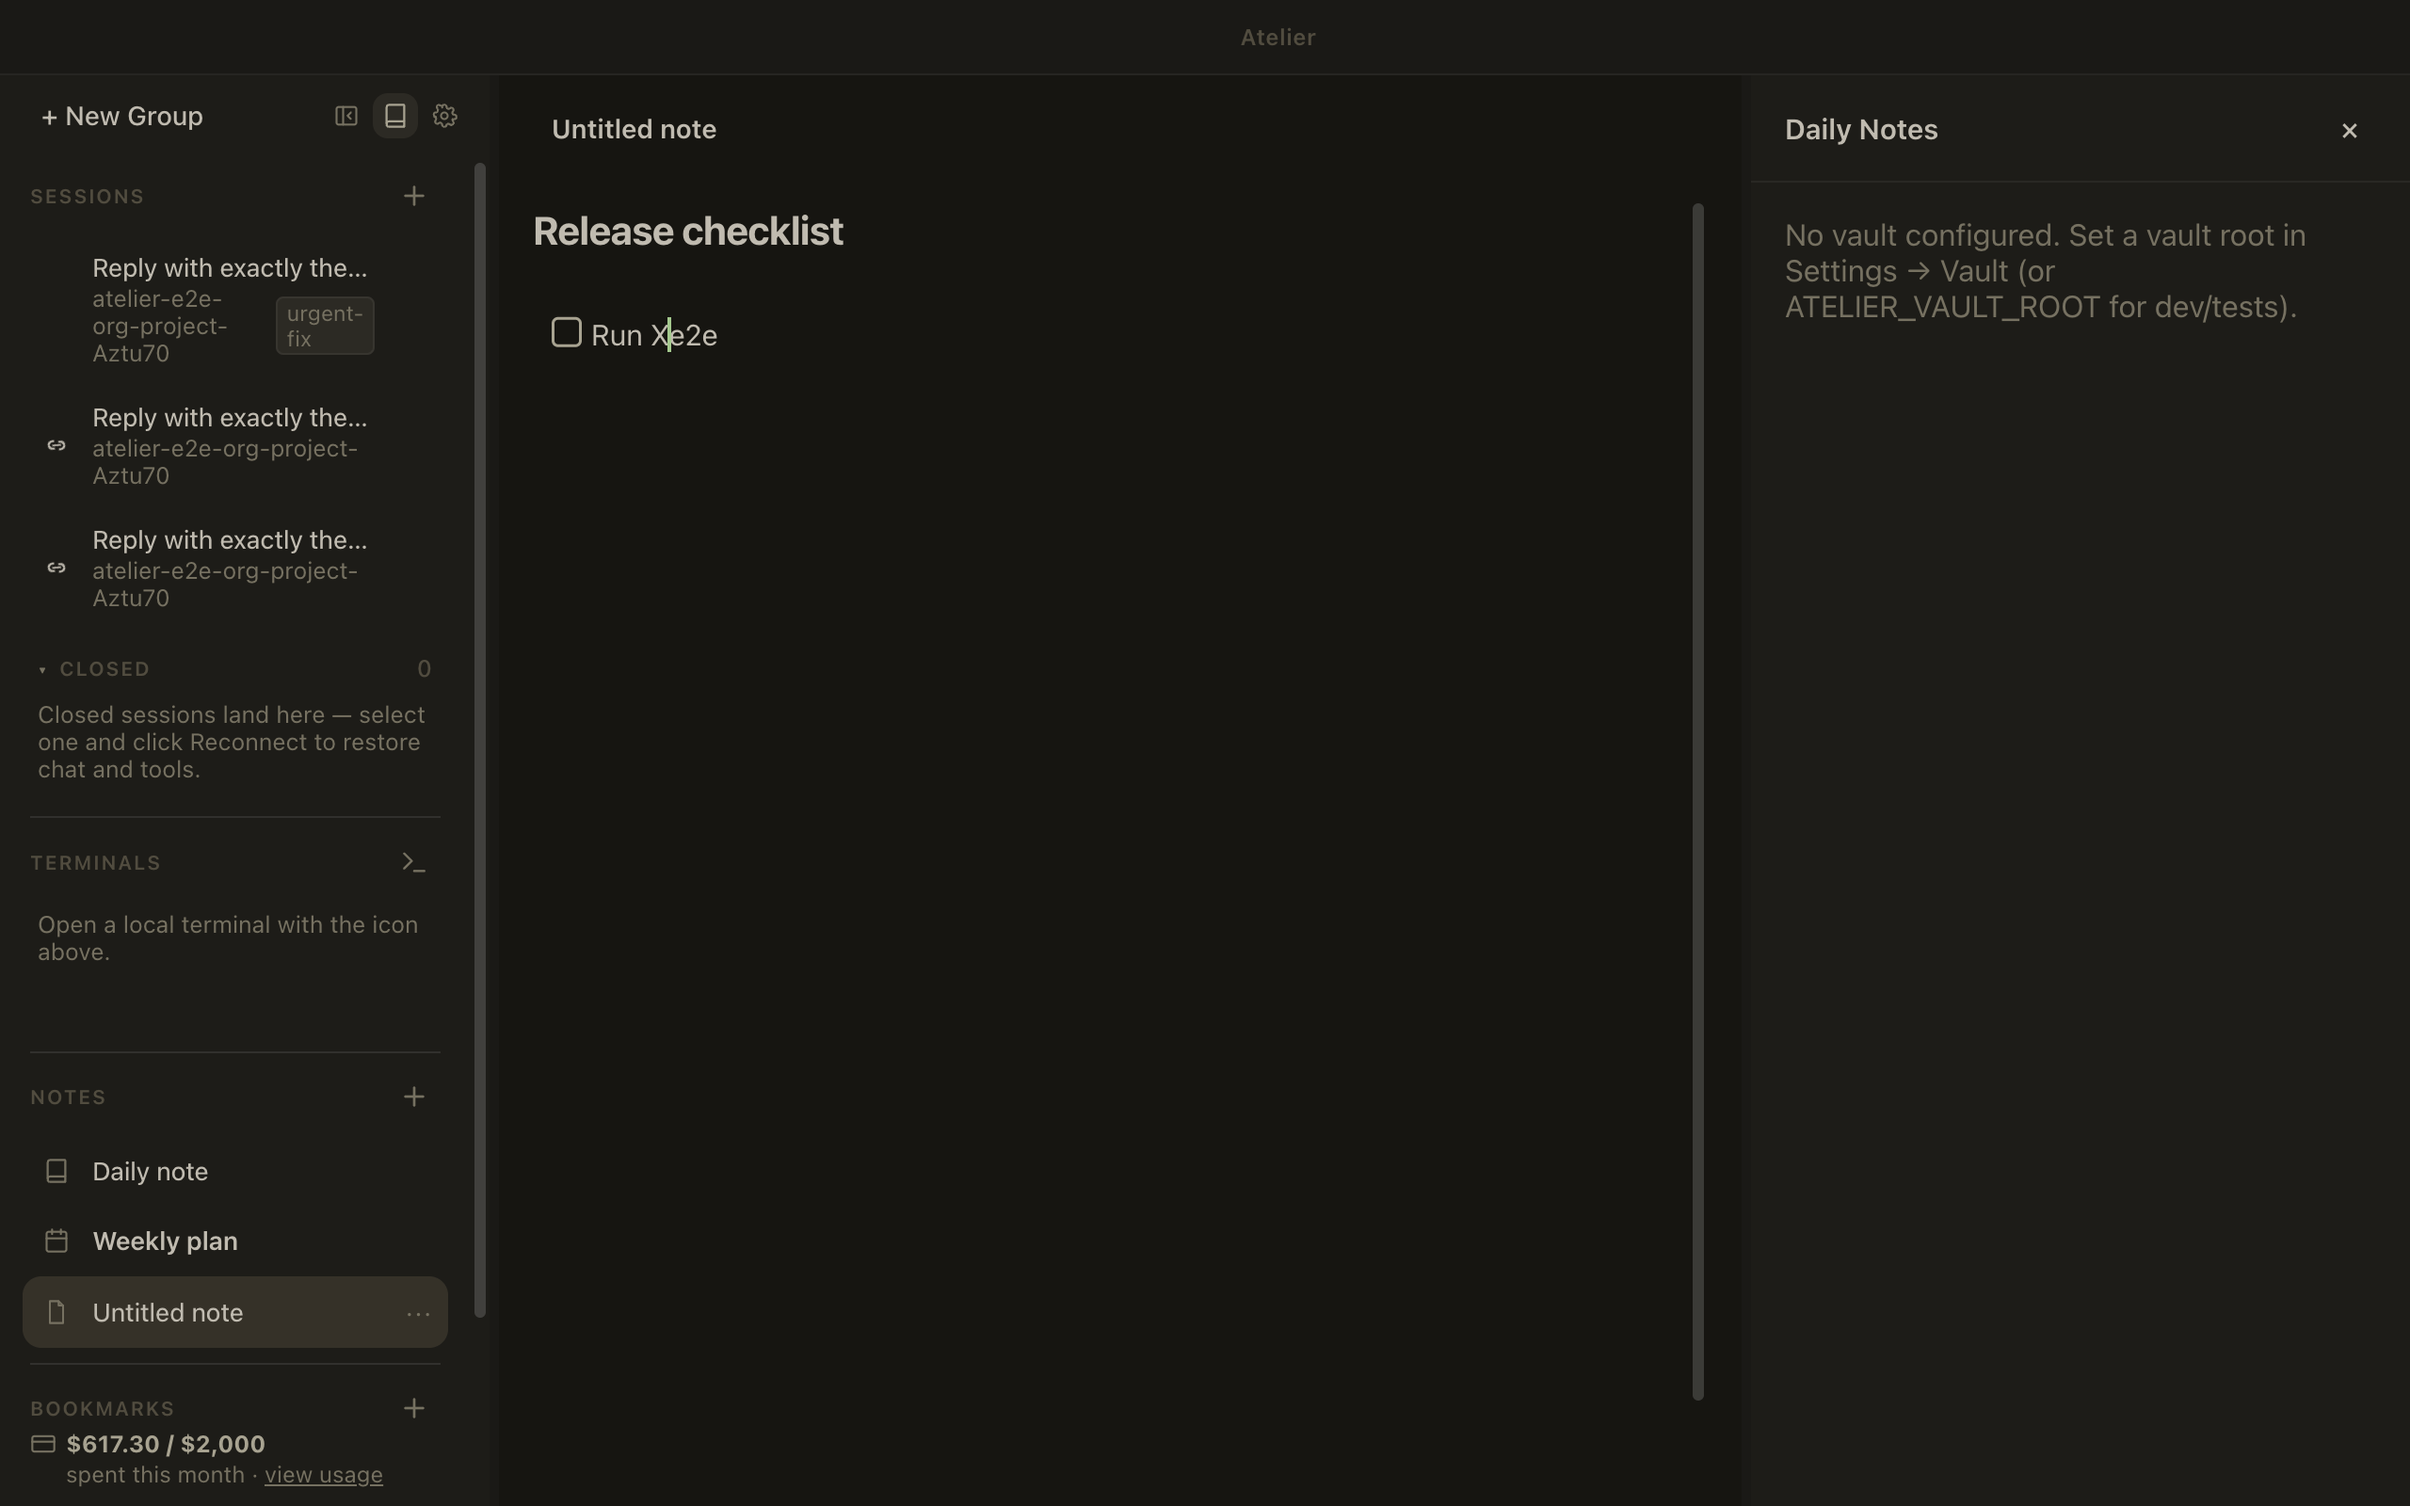
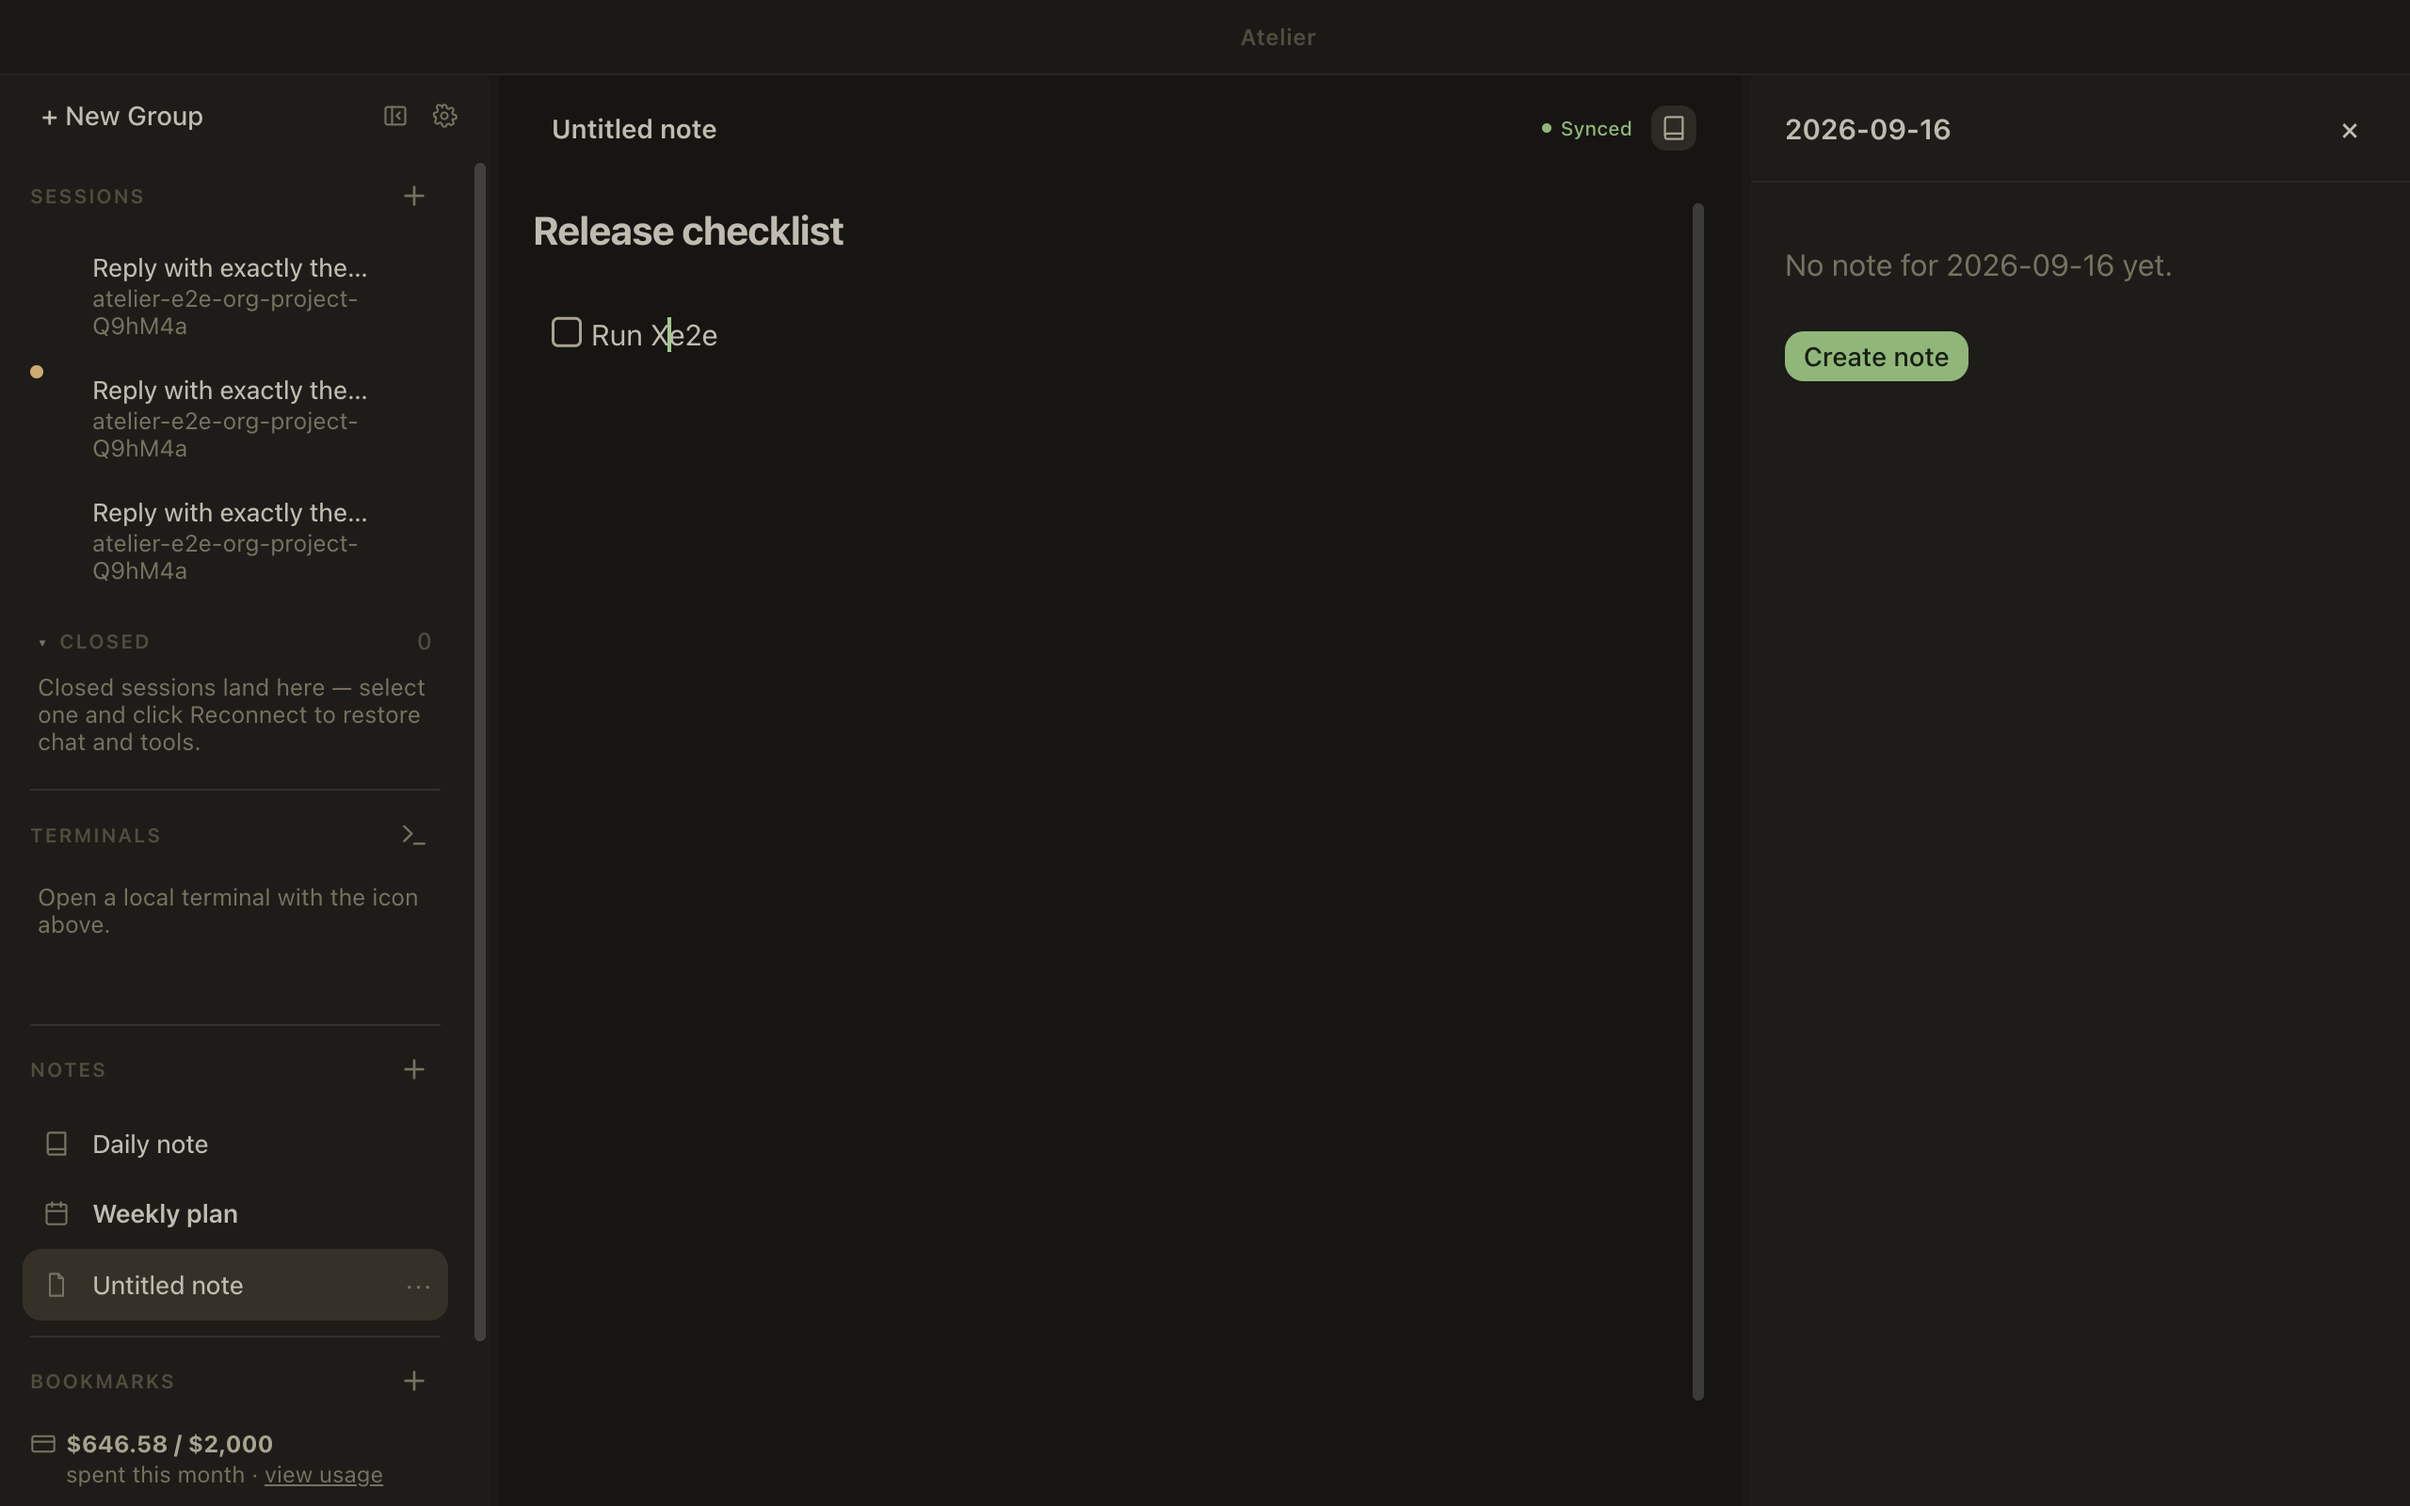
feat: show app note sync status

diff --git a/src/renderer/src/App.tsx b/src/renderer/src/App.tsx
@@ -238,6 +238,10 @@ export default function App(): JSX.Element {
   const [deleteAppNotePrompt, setDeleteAppNotePrompt] = useState<{ id: string; title: string } | null>(null)
   const [activeSessionId, setActiveSessionId] = useState<string | null>(null)
   const [activeAppNoteId, setActiveAppNoteId] = useState<string | null>(null)
+  const [appNoteSyncById, setAppNoteSyncById] = useState<
+    Record<string, 'synced' | 'saving' | 'error'>
+  >({})
+  const appNoteSyncVersionRef = useRef(new Map<string, number>())
   const [activeDailyNoteDate, setActiveDailyNoteDate] = useState<string | null>(null)
   const [dailyNoteHeaderHost, setDailyNoteHeaderHost] = useState<HTMLDivElement | null>(null)
   const [activeWeeklyPlanOpen, setActiveWeeklyPlanOpen] = useState(false)
@@ -949,6 +953,35 @@ export default function App(): JSX.Element {
     }
   }, [appNotes])
 
+  const markAppNoteSaving = useCallback((noteId: string): number => {
+    const version = (appNoteSyncVersionRef.current.get(noteId) ?? 0) + 1
+    appNoteSyncVersionRef.current.set(noteId, version)
+    setAppNoteSyncById((prev) => ({ ...prev, [noteId]: 'saving' }))
+    return version
+  }, [])
+
+  const updateAppNoteWithSync = useCallback(
+    async (
+      noteId: string,
+      patch: { title?: string; content?: string },
+      pendingVersion?: number
+    ): Promise<void> => {
+      const version = pendingVersion ?? markAppNoteSaving(noteId)
+      try {
+        await appNotes.updateNote(noteId, patch)
+        if (appNoteSyncVersionRef.current.get(noteId) === version) {
+          setAppNoteSyncById((prev) => ({ ...prev, [noteId]: 'synced' }))
+        }
+      } catch (error) {
+        if (appNoteSyncVersionRef.current.get(noteId) === version) {
+          setAppNoteSyncById((prev) => ({ ...prev, [noteId]: 'error' }))
+        }
+        throw error
+      }
+    },
+    [appNotes, markAppNoteSaving]
+  )
+
   const deleteAppNote = useCallback(
     async (noteId: string, permanently = false) => {
       const other = appNotes.notes.filter((n) => n.id !== noteId)
@@ -956,6 +989,11 @@ export default function App(): JSX.Element {
         setActiveAppNoteId(other[0]?.id ?? null)
       }
       noteCursorPositionsRef.current.delete(`app:${noteId}`)
+      appNoteSyncVersionRef.current.delete(noteId)
+      setAppNoteSyncById((prev) => {
+        const { [noteId]: _removed, ...rest } = prev
+        return rest
+      })
       await appNotes.deleteNote(noteId, permanently)
     },
     [activeAppNoteId, appNotes]
@@ -2165,7 +2203,7 @@ export default function App(): JSX.Element {
           dailyNotesPanelOpen={date !== null}
           onToggleDailyNotesPanel={() => void toggleDailyNotesPanel()}
           onCreateAppNote={() => void createAppNote()}
-          onRenameAppNote={(id, title) => void appNotes.updateNote(id, { title })}
+          onRenameAppNote={(id, title) => void updateAppNoteWithSync(id, { title })}
           onDeleteAppNote={requestDeleteAppNote}
           bookmarks={appBookmarks.bookmarks}
           onCreateBookmark={(input) => void appBookmarks.createBookmark(input)}
@@ -2213,7 +2251,9 @@ export default function App(): JSX.Element {
                     data-testid="app-note-title-input"
                     value={activeAppNote.title}
                     placeholder="Untitled note"
-                    onChange={(e) => void appNotes.updateNote(activeAppNote.id, { title: e.target.value })}
+                    onChange={(e) =>
+                      void updateAppNoteWithSync(activeAppNote.id, { title: e.target.value })
+                    }
                   />
                 ) : activeSession ? (
                   activeSession.name
@@ -2221,6 +2261,39 @@ export default function App(): JSX.Element {
                   'Atelier'
                 )}
               </span>
+              {activeAppNote ? (
+                <span
+                  className={`daily-sync-chip app-note-sync-chip ${
+                    appNoteSyncById[activeAppNote.id] ?? 'synced'
+                  }`}
+                  data-testid="app-note-sync-chip"
+                  role="status"
+                  aria-live="polite"
+                  aria-label={
+                    appNoteSyncById[activeAppNote.id] === 'saving'
+                      ? 'Saving…'
+                      : appNoteSyncById[activeAppNote.id] === 'error'
+                        ? 'Save failed'
+                        : 'Synced'
+                  }
+                  title={
+                    appNoteSyncById[activeAppNote.id] === 'saving'
+                      ? 'Saving…'
+                      : appNoteSyncById[activeAppNote.id] === 'error'
+                        ? 'Save failed'
+                        : 'Synced'
+                  }
+                >
+                  <span className="daily-sync-dot" aria-hidden="true" />
+                  <span className="daily-sync-label">
+                    {appNoteSyncById[activeAppNote.id] === 'saving'
+                      ? 'Saving…'
+                      : appNoteSyncById[activeAppNote.id] === 'error'
+                        ? 'Save failed'
+                        : 'Synced'}
+                  </span>
+                </span>
+              ) : null}
               {activeSession &&
               !activeAppNote &&
               !activeDailyNoteDate &&
@@ -2470,8 +2543,9 @@ export default function App(): JSX.Element {
               activeNoteId={activeAppNote.id}
               effectiveTheme={effectiveTheme}
               onUpdateNote={async (id, patch) => {
-                await appNotes.updateNote(id, patch)
+                await updateAppNoteWithSync(id, patch, appNoteSyncVersionRef.current.get(id))
               }}
+              onDirty={markAppNoteSaving}
               onSelectNote={selectAppNote}
               cursorPositions={noteCursorPositionsRef.current}
             />

diff --git a/e2e/obsidian-app-notes.spec.ts b/e2e/obsidian-app-notes.spec.ts
@@ -17,11 +17,12 @@ async function launchApp(userDataDir: string): Promise<{ app: ElectronApplicatio
 test.describe('Obsidian-backed app notes', () => {
   let electronApp: ElectronApplication
   let page: Page
+  let userDataDir: string
   let vault: string
   let notesFolder: string
 
   test.beforeAll(async () => {
-    const userDataDir = mkdtempSync(join(tmpdir(), 'atelier-e2e-obsidian-notes-'))
+    userDataDir = mkdtempSync(join(tmpdir(), 'atelier-e2e-obsidian-notes-'))
     vault = join(userDataDir, 'vault')
     notesFolder = join(vault, 'Atelier')
     mkdirSync(notesFolder, { recursive: true })
@@ -49,8 +50,12 @@ test.describe('Obsidian-backed app notes', () => {
 
     await page.getByTestId('app-note-editor').click()
     await page.keyboard.type('Saved into Obsidian')
-    await page.keyboard.press(process.platform === 'darwin' ? 'Meta+s' : 'Control+s')
+    await page.screenshot({ path: join(artifactsDir, 'obsidian-app-note-sync-status.png') })
+    const syncChip = page.getByTestId('app-note-sync-chip')
+    await expect.soft(syncChip).toHaveText('Saving…')
     await expect.poll(() => readFileSync(originalPath, 'utf-8')).toContain('Saved into Obsidian')
+    await expect.soft(readFileSync(join(userDataDir, 'logs', 'main.log'), 'utf-8')).toContain('app-note updated')
+    await expect(syncChip).toHaveText('Synced')
 
     await row.getByTestId('app-note-menu-button').click()
     await page.getByTestId('app-note-menu-rename').click()

diff --git a/src/renderer/src/components/panels/AppNotesPanel.tsx b/src/renderer/src/components/panels/AppNotesPanel.tsx
@@ -21,12 +21,14 @@ export default function AppNotesPanel({
   activeNoteId,
   effectiveTheme,
   onUpdateNote,
+  onDirty,
   cursorPositions
 }: {
   notes: AppNoteRecord[]
   activeNoteId: string
   effectiveTheme: 'light' | 'dark'
   onUpdateNote: (id: string, patch: { title?: string; content?: string }) => Promise<void>
+  onDirty?: (id: string) => void
   onSelectNote: (noteId: string) => void
   cursorPositions: NoteCursorPositions
 }): JSX.Element {
@@ -58,7 +60,7 @@ export default function AppNotesPanel({
           {
             key: 'Mod-s',
             run: () => {
-              void saveRef.current?.()
+              void saveRef.current?.().catch(() => undefined)
               return true
             }
           }
@@ -70,8 +72,12 @@ export default function AppNotesPanel({
 
   const handleMarkdownChange = useCallback(() => {
     if (debounceRef.current) clearTimeout(debounceRef.current)
-    debounceRef.current = setTimeout(() => void saveRef.current?.(), 600)
-  }, [])
+    onDirty?.(activeNoteIdRef.current)
+    debounceRef.current = setTimeout(() => {
+      debounceRef.current = null
+      void saveRef.current?.().catch(() => undefined)
+    }, 600)
+  }, [onDirty])
 
   useEffect(() => {
     return () => {

diff --git a/src/renderer/src/styles/global.css b/src/renderer/src/styles/global.css
@@ -3787,7 +3787,7 @@ body.dragging-workspace-tab .workspace-drop-zone { opacity: 1; }
   align-items: center;
   gap: 14px;
 }
-.daily-note-header-controls .daily-sync-chip {
+.daily-sync-chip {
   flex-shrink: 0;
   display: inline-flex;
   align-items: center;
@@ -3798,18 +3798,21 @@ body.dragging-workspace-tab .workspace-drop-zone { opacity: 1; }
   color: var(--text-tertiary);
   margin-left: auto;
 }
-.daily-note-header-controls .daily-sync-dot {
+.daily-sync-dot {
   width: 5px;
   height: 5px;
   flex-shrink: 0;
   border-radius: 50%;
   background: currentColor;
 }
-.daily-note-header-controls .daily-sync-chip.synced {
+.daily-sync-chip.synced {
   color: var(--accent);
 }
-.daily-note-header-controls .daily-sync-chip.external {
+.daily-sync-chip.external {
   color: var(--warning);
+}
+.daily-sync-chip.error {
+  color: var(--danger);
 }
 .daily-note-editor-panel .daily-note-vault-path {
   font-family: var(--font-mono);

diff --git a/src/main/app-notes/ipc.ts b/src/main/app-notes/ipc.ts
@@ -59,6 +59,7 @@ export function registerAppNotesHandlers(): void {
   ipcMain.handle('app-note:update', (_event, id: string, patch: AppNoteUpdate) => {
     const note = fileStore().update(id, patch)
     if (!note) throw new Error(`app note not found: ${id}`)
+    logger.info('app-note updated', { id, fields: Object.keys(patch) })
     return note
   })
 

diff --git a/Features/obsidian-app-notes/spec.md b/Features/obsidian-app-notes/spec.md
@@ -26,7 +26,10 @@
 5. Editing an app note keeps the existing 600ms autosave and explicit
    `⌘S` behavior, but atomically writes the note Markdown file. The app editor
    receives Markdown without its frontmatter so it never exposes integration
-   metadata to the author.
+   metadata to the author. As soon as the editor changes, a status beside the
+   note title reads **Saving…**; after the atomic file write resolves it reads
+   **Synced**. A failed write reads **Save failed** and is never presented as
+   synced.
 6. Renaming a note atomically renames its Markdown file to the sanitized title
    plus `.md`, retaining its content and frontmatter.
 7. Choosing **Delete** opens a confirmation dialog. **Delete** removes the
@@ -47,6 +50,12 @@ button treatment. The confirmation has a concise explanation of the archive
 operation and three visibly distinct actions: Cancel, Delete, and Delete
 permanently.
 
+The app-note sync status reuses the Daily Note topbar treatment exactly:
+`.daily-sync-chip`, `.daily-sync-dot`, and `.daily-sync-label`. It sits beside
+the app-note title, uses the same **Saving…** and **Synced** labels, and adds
+the existing danger token only for **Save failed**. The mock does not include
+an app-note editor state, so this placement is defined here.
+
 ## Done
 
 - [ ] A configured folder creates tagged Markdown notes; untagged Markdown
@@ -54,6 +63,8 @@ permanently.
 - [ ] Legacy DB notes export once, then load from their Markdown files after a
       real relaunch.
 - [ ] Typing/autosaving and `⌘S` update the source file atomically.
+- [ ] App-note edits show Saving… immediately, Synced only after the file write,
+      and Save failed when the write rejects.
 - [ ] Rename changes the source filename without losing body or frontmatter.
 - [ ] Each delete choice has the stated filesystem result.
 - [ ] `npm run build` passes.
